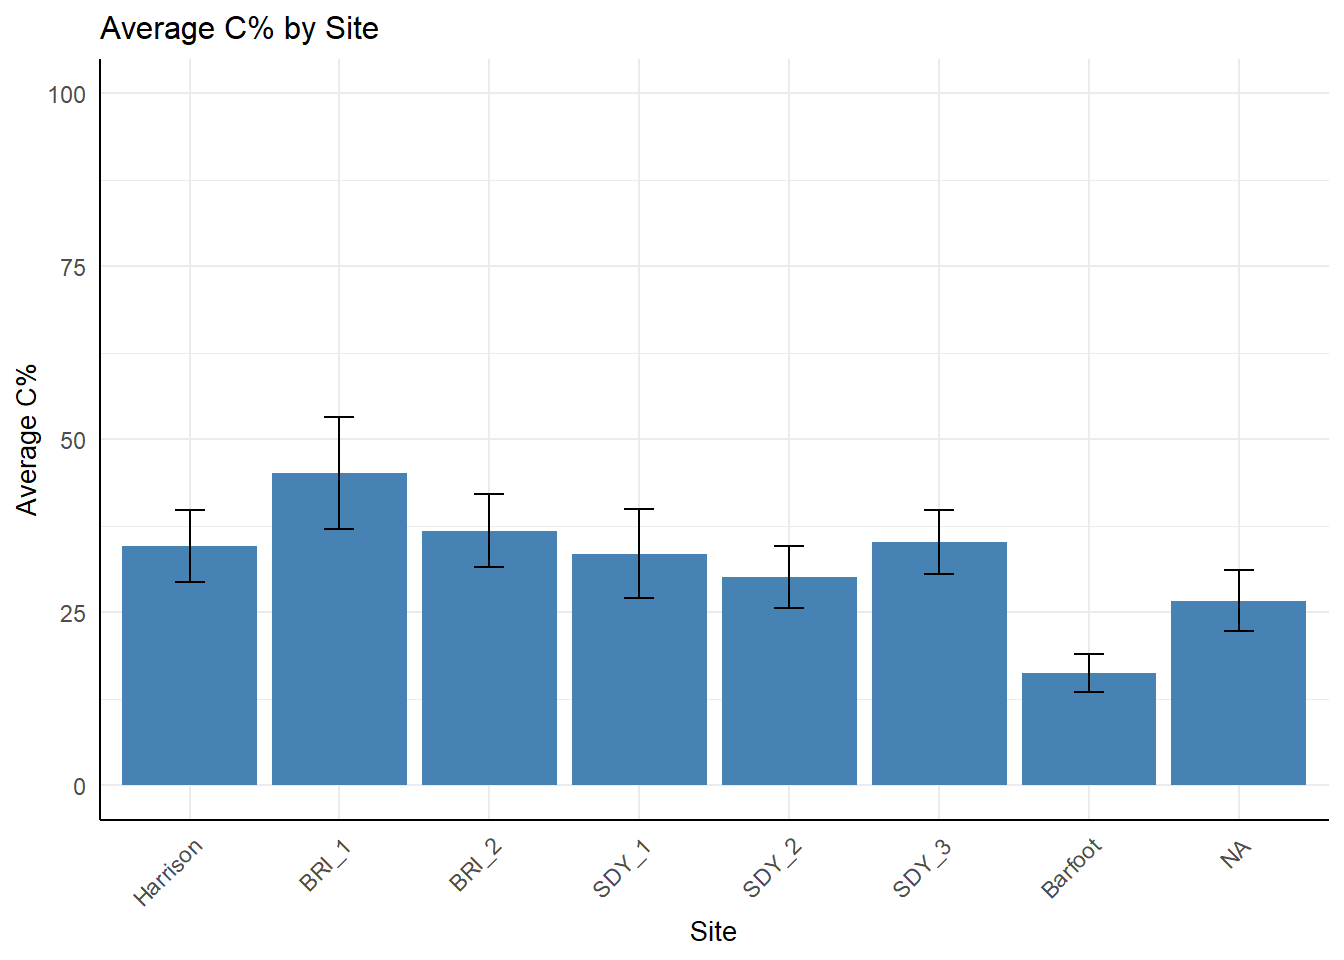
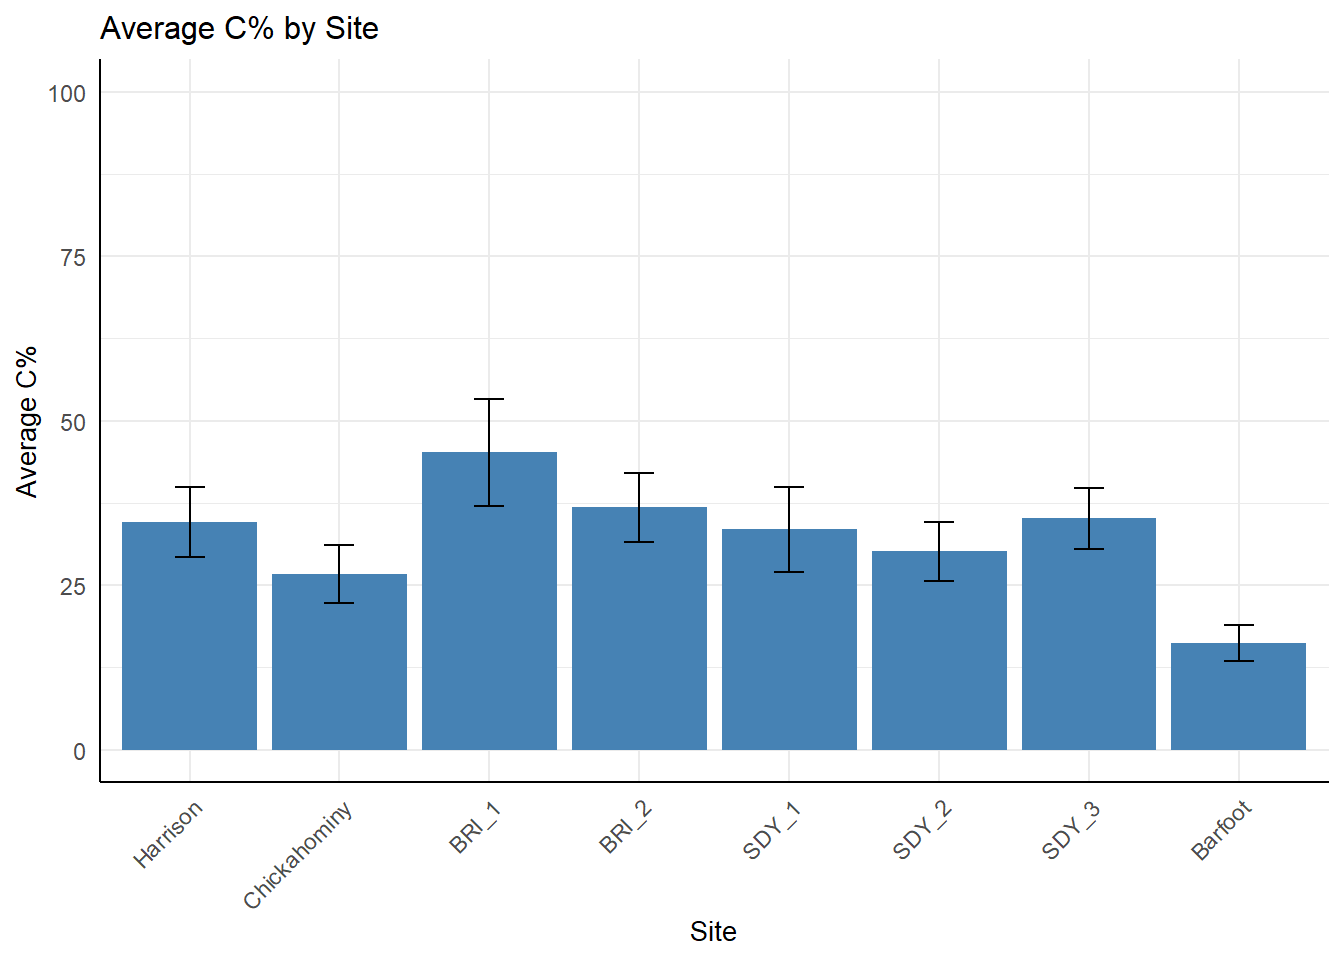
c% 2

diff --git a/docs/Markdown/CommitteePlots.html b/docs/Markdown/CommitteePlots.html
@@ -737,16 +737,12 @@ F-statistic: 7.122 on 2 and 21 DF,  p-value: 0.004355</code></pre>
 </div>
 </div>
 <div class="cell">
-<div class="cell-output cell-output-stdout">
-<pre><code># A tibble: 6 × 3
-  Site        Average_Cpercent SE_Cpercent
-  &lt;chr&gt;                  &lt;dbl&gt;       &lt;dbl&gt;
-1 2-BRI010.78             45.2        8.10
-2 2-BRI013.12             36.8        5.27
-3 2-MBN000.96             35.2        4.63
-4 2-SDY004.27             33.4        6.43
-5 2-SDY005.85             30.1        4.53
-6 5ANTW127.14             16.2        2.75</code></pre>
+<div class="cell-output-display">
+<div>
+<figure class="figure">
+<p><img src="CommitteePlots_files/figure-html/unnamed-chunk-56-1.png" class="img-fluid figure-img" width="672"></p>
+</figure>
+</div>
 </div>
 </div>
 <div class="cell">
